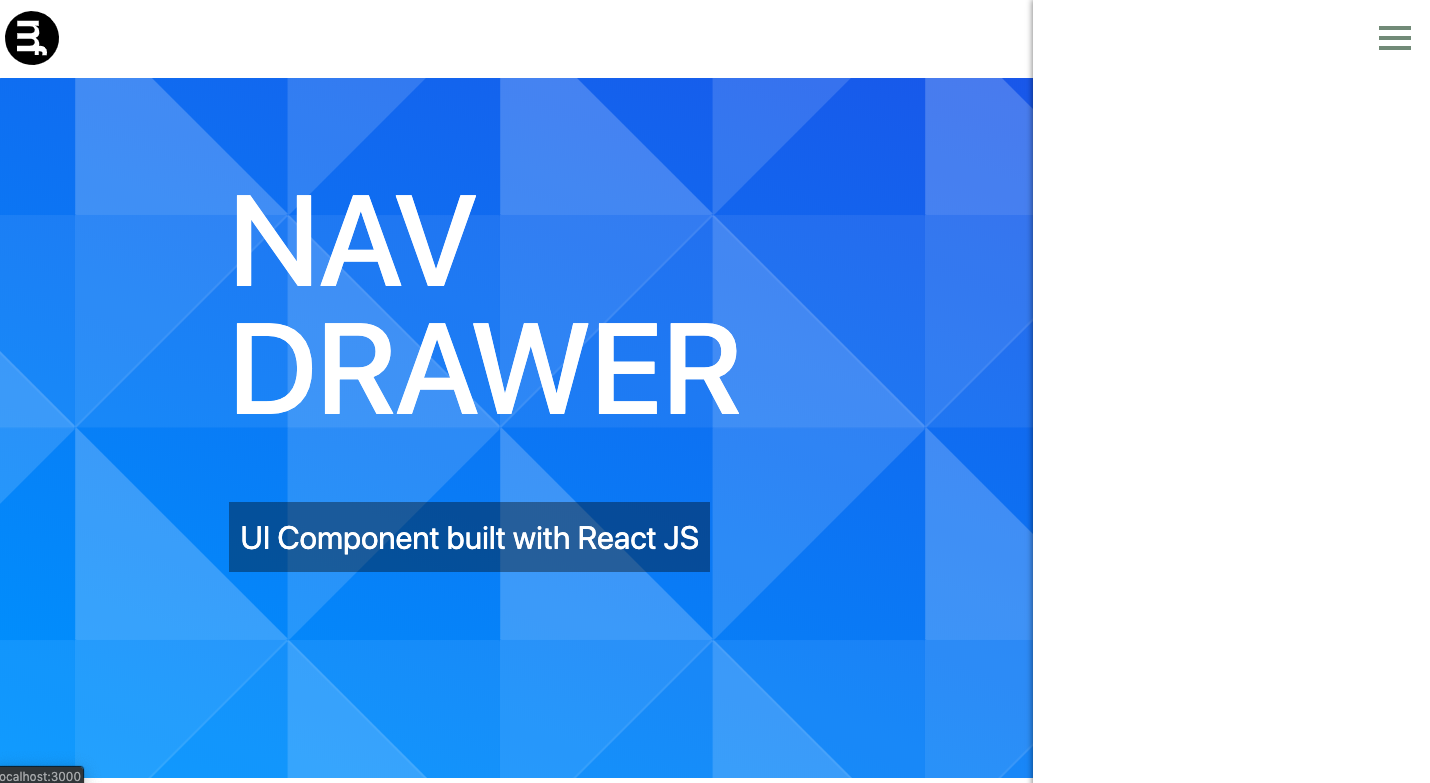
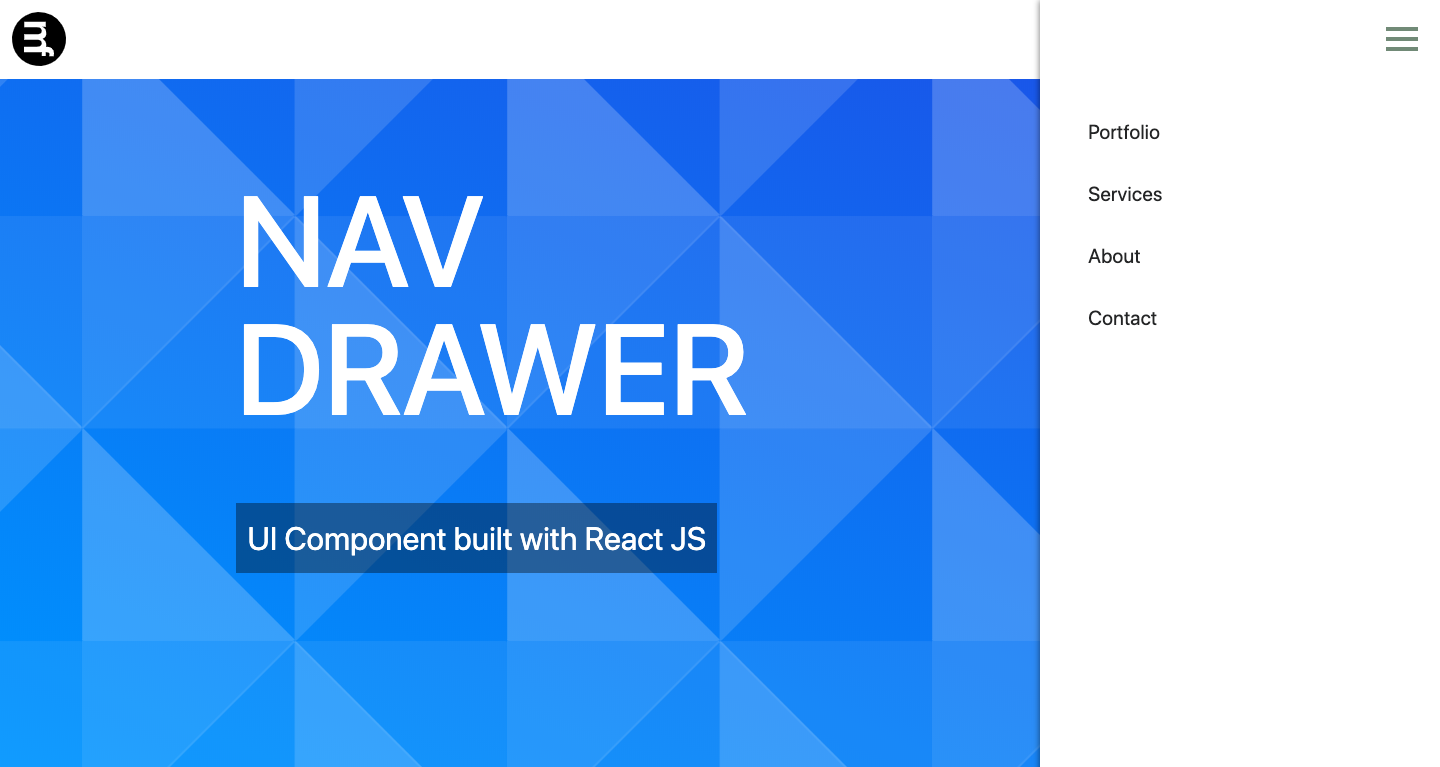
Updated menu

diff --git a/src/components/styles/Menu.js b/src/components/styles/Menu.js
@@ -1,0 +1,50 @@
+import React, { Component } from "react";
+import styled from "styled-components";
+
+const Ul = styled.ul`
+  display: block;
+  position: relative;
+  width: 100%;
+  margin: 0;
+  padding: 0;
+  padding-top: 48px;
+`;
+
+const Li = styled.li`
+display: flex;
+  flex-direction: column;
+  position: relative;
+  a {
+    padding: 0 24px;
+    margin: 1rem 1.5rem;
+    font-size: 1.25rem;
+    text-transform: capitalize;
+    color: #242526;
+  }
+  &.active,
+  &:hover {
+    a {
+      color: #4497cb;
+    }
+  }
+`;
+export default class extends Component {
+    render() {
+        return (
+          <Ul>
+            <Li>
+              <a href="/">Portfolio</a>
+            </Li>
+            <Li>
+              <a href="/">Services</a>
+            </Li>
+            <Li>
+              <a href="/">About</a>
+            </Li>
+            <Li>
+              <a href="/">Contact</a>
+            </Li>
+          </Ul>
+        );
+    }
+}

diff --git a/src/components/Nav.js b/src/components/Nav.js
@@ -2,6 +2,7 @@ import React, { Component } from 'react';
 import styled from 'styled-components';
 
 import Logo from './Logo';
+import Ul from './styles/Menu';
 
 const Nav = styled.nav`
   display: flex;
@@ -115,6 +116,7 @@ class ToggleNav extends Component {
               this.state.isToggleOn ? "nav--hidden" : "nav--visible"
             }
           >
+            <Ul></Ul>
           </Menu>
         </Navbar>
       </Nav>
